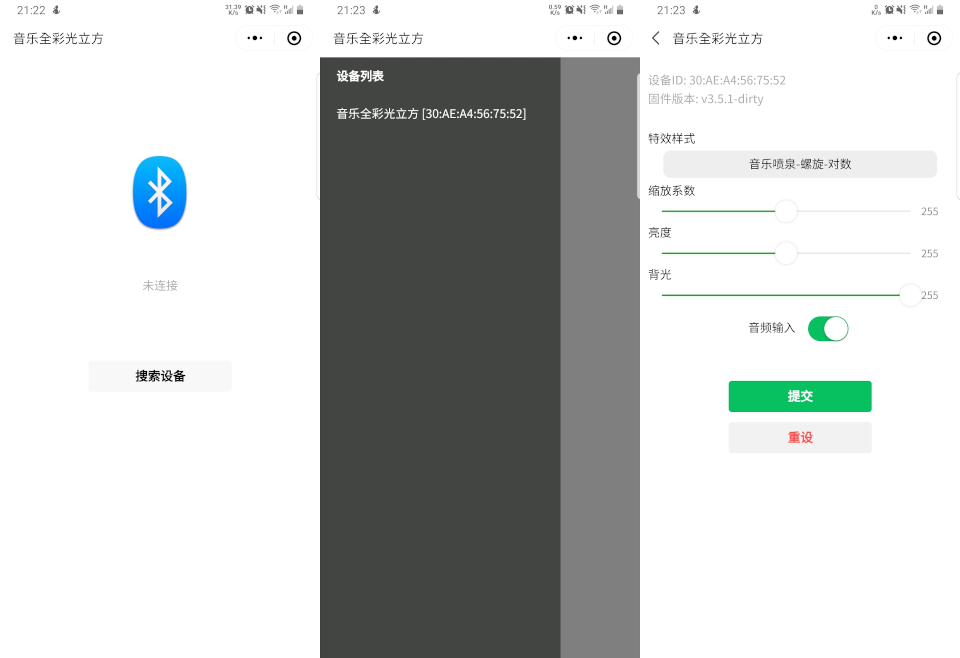
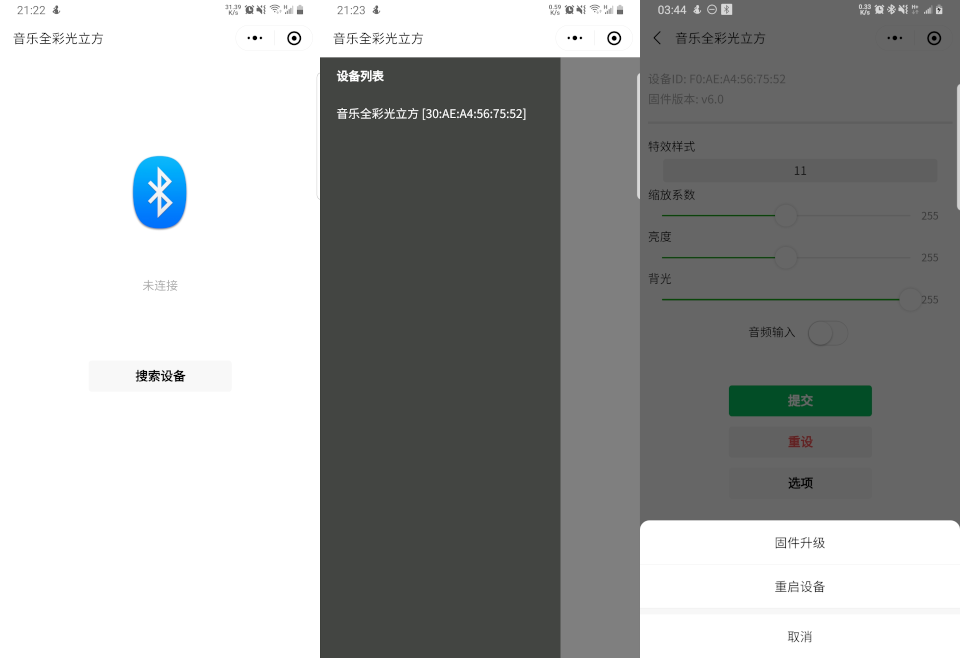
pages/device: add OTA update support

Changed region(s): [[0.6562, 0.0, 1.0, 0.8511], [0.8125, 0.8815, 0.875, 0.9119], [0.8125, 0.9422, 0.8438, 0.9726]]

diff --git a/pages/device/device.js b/pages/device/device.js
@@ -1,6 +1,8 @@
 // device.js
 
-import { ab2str } from '../../utils/util.js';
+import { ab2str, str2ab } from '../../utils/util.js';
+
+const TX_BUF_SIZE = 509;
 
 // 固件更新服务
 const otaServiceId = '0000FF52-0000-1000-8000-00805F9B34FB';
@@ -13,6 +15,12 @@ Page({
   data: {
     devId: '读取中...',
     devVer: '读取中...',
+    otaRun: false,
+    otaTimer: 0,
+    dataPath: '',
+    dataSize: 0,
+    dataSent: 0,
+    dataProg: 0,
     recvMask: 0x0,
     cancelled: false,
     devHasVfx: false,
@@ -215,6 +223,206 @@ Page({
       }
     });
   },
+  // 固件升级处理函数
+  otaExec(e) {
+    let that = this;
+
+    console.log('<= ' + ab2str(e));
+
+    if (ab2str(e) === 'OK\r\n') {
+      wx.showLoading({
+        title: '固件升级中',
+        mask: true
+      });
+
+      let dataDone = true;
+      that.setData({
+        otaTimer: setInterval(function () {
+          if (dataDone) {
+            dataDone = false;
+          } else {
+            return;
+          }
+
+          let dataLeft = that.data.dataSize - that.data.dataSent;
+          let dataRead = (dataLeft >= TX_BUF_SIZE) ? TX_BUF_SIZE : dataLeft;
+
+          if (dataLeft != 0) {
+            // 发送OTA数据
+            wx.writeBLECharacteristicValue({
+              deviceId: that.data.devId,
+              serviceId: otaServiceId,
+              characteristicId: otaCharacteristicId,
+              value: str2ab(wx.getFileSystemManager().readFileSync(that.data.dataPath, 'binary', that.data.dataSent, dataRead)),
+              success(res) {
+                dataDone = true;
+              }
+            });
+          } else {
+            clearInterval(that.data.otaTimer);
+          }
+
+          that.setData({
+            dataSent: that.data.dataSent + dataRead,
+            dataProg: that.data.dataSent * 100 / that.data.dataSize
+          });
+        }, 5)
+      });
+    } else if (ab2str(e) === 'DONE\r\n') {
+      if (!that.data.cancelled) {
+        wx.hideLoading({
+          success(res) {
+            wx.showModal({
+              title: '提示',
+              content: '固件升级成功',
+              showCancel: false,
+              success(res) {
+                that.setData({
+                  otaRun: false
+                });
+                // 发送重启设备命令
+                let otaCmd = 'FW+RST!\r\n';
+                console.log('=> ' + otaCmd);
+                wx.writeBLECharacteristicValue({
+                  deviceId: that.data.devId,
+                  serviceId: otaServiceId,
+                  characteristicId: otaCharacteristicId,
+                  value: str2ab(otaCmd),
+                  complete(res) {
+                    console.log(res.errMsg);
+                  }
+                });
+              }
+            });
+          },
+          fail(res) { /* empty statement */ }
+        });
+      }
+    } else if (ab2str(e) === 'FAIL\r\n') {
+      if (!that.data.cancelled) {
+        clearInterval(that.data.otaTimer);
+        wx.hideLoading({
+          success(res) {
+            wx.showModal({
+              title: '提示',
+              content: '设备未就绪',
+              showCancel: false,
+              success(res) {
+                that.setData({
+                  otaRun: false
+                });
+              }
+            });
+          },
+          fail(res) { /* empty statement */ }
+        });
+      }
+    } else if (ab2str(e) === 'ERROR\r\n') {
+      if (!that.data.cancelled) {
+        clearInterval(that.data.otaTimer);
+        wx.hideLoading({
+          success(res) {
+            wx.showModal({
+              title: '提示',
+              content: '固件写入失败',
+              showCancel: false,
+              success(res) {
+                that.setData({
+                  otaRun: false
+                });
+                wx.navigateBack({
+                  delta: 1
+                });
+              }
+            });
+          },
+          fail(res) { /* empty statement */ }
+        });
+      }
+    }
+  },
+  // 选项按钮事件
+  optionBtn() {
+    let that = this;
+
+    wx.showActionSheet({
+      itemList: ['固件升级', '重启设备'],
+      success(res) {
+        switch (res.tapIndex) {
+          case 0: // 固件升级
+            wx.chooseMessageFile({
+              count: 1,
+              type: 'file',
+              success(res){
+                that.setData({
+                  dataPath: res.tempFiles[0].path,
+                  dataSize: res.tempFiles[0].size,
+                  dataSent: 0,
+                  dataProg: 0
+                });
+
+                wx.showModal({
+                  title: '提示',
+                  content: '确认升级固件',
+                  showCancel: true,
+                  success(res) {
+                    if (res.confirm) {
+                      wx.showLoading({
+                        title: '等待设备就绪',
+                        mask: true
+                      });
+
+                      that.setData({
+                        otaRun: true
+                      });
+
+                      // 发送固件升级命令
+                      let otaCmd = 'FW+UPD:' + that.data.dataSize + '\r\n';
+                      console.log('=> ' + otaCmd);
+                      wx.writeBLECharacteristicValue({
+                        deviceId: that.data.devId,
+                        serviceId: otaServiceId,
+                        characteristicId: otaCharacteristicId,
+                        value: str2ab(otaCmd),
+                        complete(res) {
+                          console.log(res.errMsg);
+                        }
+                      });
+                    }
+                  }
+                });
+              }
+            });
+            break;
+          case 1: // 重启设备
+            wx.showModal({
+              title: '提示',
+              content: '确认重启设备',
+              showCancel: true,
+              success(res) {
+                if (res.confirm) {
+                  // 发送重启设备命令
+                  let otaCmd = 'FW+RST!\r\n';
+                  console.log('=> ' + otaCmd);
+                  wx.writeBLECharacteristicValue({
+                    deviceId: that.data.devId,
+                    serviceId: otaServiceId,
+                    characteristicId: otaCharacteristicId,
+                    value: str2ab(otaCmd),
+                    complete(res) {
+                      console.log(res.errMsg);
+                    }
+                  });
+                }
+              }
+            });
+            break;
+          default:
+            break;
+        }
+      }
+    });
+  },
   // 页面加载事件
   onLoad(e) {
     let that = this;
@@ -232,6 +440,24 @@ Page({
       deviceId: that.data.devId,
       // 创建BLE连接成功
       success(res) {
+        // 设置MTU大小
+        wx.setBLEMTU({
+          deviceId: that.data.devId,
+          mtu: TX_BUF_SIZE + 3,
+          complete(res) {
+            console.log(res.errMsg);
+          }
+        });
+        // 启用OTA服务通知
+        wx.notifyBLECharacteristicValueChange({
+          state: true,
+          deviceId: that.data.devId,
+          serviceId: otaServiceId,
+          characteristicId: otaCharacteristicId,
+          complete(res) {
+            console.log(res.errMsg);
+          }
+        });
         // 读固件版本
         wx.readBLECharacteristicValue({
           deviceId: that.data.devId,
@@ -294,10 +520,16 @@ Page({
         wx.onBLECharacteristicValueChange(function (res) {
           // 固件版本信息
           if (res.characteristicId == otaCharacteristicId) {
-            that.setData({
-              devVer: ab2str(res.value),
-              recvMask: that.data.recvMask | 0x1
-            });
+            if (!that.data.otaRun) {
+              that.setData({
+                devVer: ab2str(res.value),
+                recvMask: that.data.recvMask | 0x1
+              });
+            } else {
+              that.otaExec(res.value);
+
+              return;
+            }
           }
           // 设备配置信息
           if (res.characteristicId == vfxCharacteristicId) {
